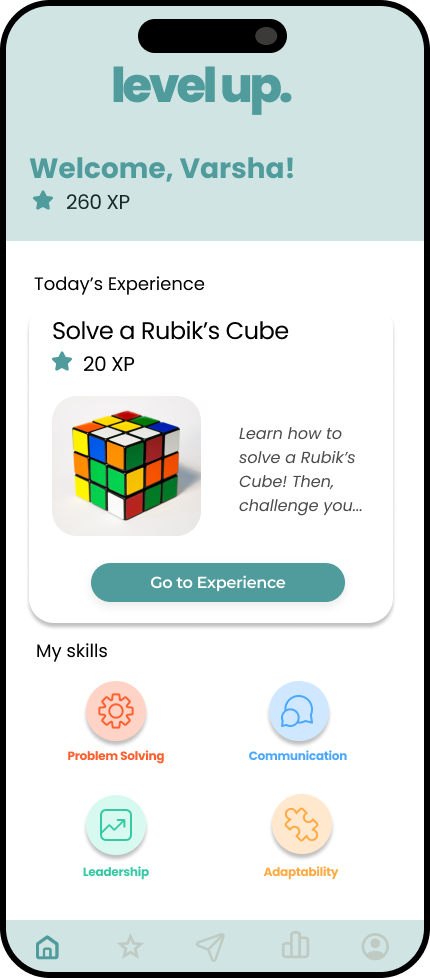
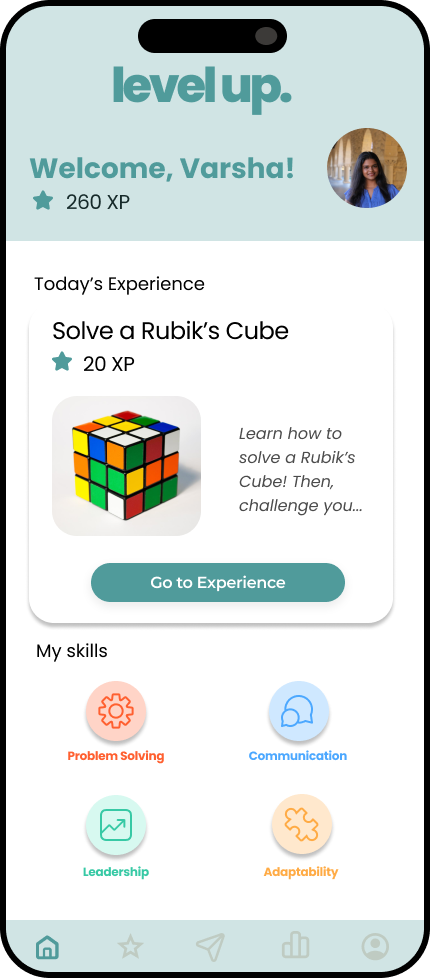
Made final changes: updated profile image and xlsx file

Changed region(s): [[0.7558, 0.1227, 0.9674, 0.2147]]

diff --git a/style.css b/style.css
@@ -501,97 +501,122 @@ input {
 	margin-bottom:20px;
 }
 }
-@media all and (max-width:768px) {
-.nav-scroll .navbar-brand img, .navbar-brand img {
-	transform: scale(0.75) !important;
-	-webkit-transform: scale(0.75) !important;
-}
-.banner-text {
-	color: #000000;
-	padding-right: 0px;
-	margin: 10px 0px 0px;
-}
-h2 {
-	font-size: 25px;
-}
-h3 {
-	color: #509B9B;
-	font-size: 20px;
-}
-.section-padding {
-	padding: 40px 0px;
-}
-.banner-text p {
-	margin: 25px 0px;
-}
-.banner-text ul li a img {
-	width: 140px;
-	border-radius: 7px;
-}
-.sectioner-header {
-	width: 90%;
-}
-.sectioner-header p {
-	font-size: 14px;
-}
-.about-btn {
-	padding: 5px 30px;
-	margin-top: 0px;
-	font-size: 16px;
-}
-.single-feature {
-	margin-bottom: 20px;
-	margin-top: 20px;
-}
-.team-detail {
-	margin-top: 20px;
-}
-.team-detail img {
-	width: 50%;
-}
-.bx-controls
-{
-	display:none;
-}
-.bx-wrapper {
-	margin: 0px 20px !important;
-}
-.slider .test-img img {
-	margin: 0 auto;
-}
-.test-img {
-	float:none;
-	width: 200px;
-	height: 200px;
-	margin: 0 auto;
-}
-.test-text {
-	float: none;
-	width: 100%;
-	text-align: center;
-}
-.section-content {
-	margin-top: 40px;
-}
-.faq-content {
-	margin: 10px 0px;
-}
-.faq-content h4 {
-	font-size: 16px;
-}
-.faq-content p {
-	font-size: 13px;
-}
-#contact_form {
-	margin-bottom: 20px;
-}
-.contact-item {
-	font-size: 12px;
-}
-.download ul li a img {
-	width: 120px;
-}
-.footer-copy p {
-	font-size: 10px;
-}
-}
+media all and (max-width:768px) {
+	.nav-scroll .navbar-brand img, .navbar-brand img {
+	  transform: scale(0.75) !important;
+	  -webkit-transform: scale(0.75) !important;
+	}
+	
+	.banner-text {
+	  color: #000000;
+	  padding-right: 0px;
+	  margin: 10px 0px 0px;
+	}
+	
+	h2 {
+	  font-size: 25px;
+	}
+	
+	h3 {
+	  color: #509B9B;
+	  font-size: 28px; /* Increased font size for better visibility on mobile */
+	  font-weight: 600; /* Ensure bold text for better readability */
+	}
+	
+	.section-padding {
+	  padding: 40px 0px;
+	}
+	
+	.banner-text p {
+	  margin: 25px 0px;
+	}
+	
+	.banner-text ul li a img {
+	  width: 140px;
+	  border-radius: 7px;
+	}
+	
+	.sectioner-header {
+	  width: 90%;
+	}
+	
+	.sectioner-header p {
+	  font-size: 14px;
+	}
+	
+	.about-btn {
+	  padding: 5px 30px;
+	  margin-top: 0px;
+	  font-size: 16px;
+	}
+	
+	.single-feature {
+	  margin-bottom: 20px;
+	  margin-top: 20px;
+	}
+	
+	.team-detail {
+	  margin-top: 20px;
+	}
+	
+	.team-detail img {
+	  width: 50%;
+	}
+	
+	.bx-controls {
+	  display: none;
+	}
+	
+	.bx-wrapper {
+	  margin: 0px 20px !important;
+	}
+	
+	.slider .test-img img {
+	  margin: 0 auto;
+	}
+	
+	.test-img {
+	  float: none;
+	  width: 200px;
+	  height: 200px;
+	  margin: 0 auto;
+	}
+	
+	.test-text {
+	  float: none;
+	  width: 100%;
+	  text-align: center;
+	}
+	
+	.section-content {
+	  margin-top: 40px;
+	}
+	
+	.faq-content {
+	  margin: 10px 0px;
+	}
+	
+	.faq-content h4 {
+	  font-size: 16px;
+	}
+	
+	.faq-content p {
+	  font-size: 13px;
+	}
+	
+	#contact_form {
+	  margin-bottom: 20px;
+	}
+	
+	.contact-item {
+	  font-size: 12px;
+	}
+	
+	.download ul li a img {
+	  width: 120px;
+	}
+	
+	.footer-copy p {
+	  font-size: 10px;
+	}
+  }

diff --git a/index.html b/index.html
@@ -216,6 +216,8 @@
                   <strong style="font-size: 1rem; flex: 1;">A9: Heuristic Evaluation Synthesis</strong>
                   <div style="flex-shrink: 0;">
                     <a href="process documents/Level Up - Group HE.pdf" target="_blank" style="text-decoration: underline; color: #509B9B; margin-right: 10px;">Report (PDF)</a>
+                    <span>|</span>
+                    <a href="process documents/Level Up - Group HE.xlsx" target="_blank" style="text-decoration: underline; color: #509B9B; margin-right: 10px;">Report (XLSX)</a>
                   </div>
                 </li>
                 <hr>
